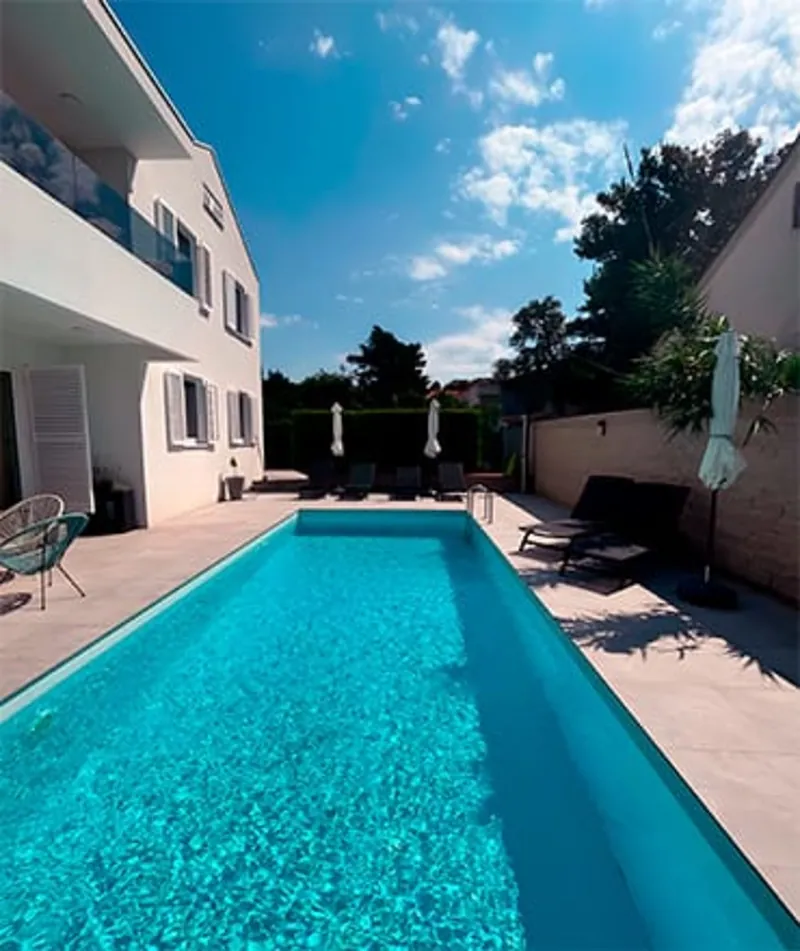
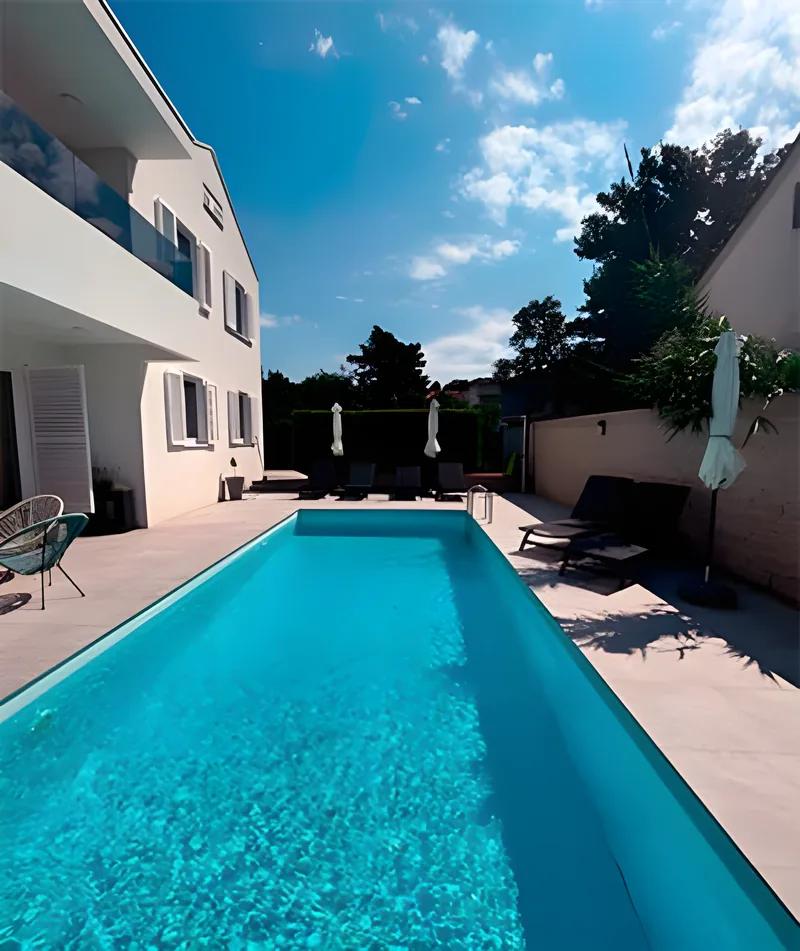
Titelbild mit Überblendung, alle Hausfotos KI-aufgewertet
- Titelbild: vier echte Fotos blenden sanft über (langsamer Zoom,
  Beschriftung, Punkte-Anzeige); bei „Bewegung reduzieren“ nur ein Bild
- Hausfotos hochskaliert: Meerblick und More mit Topaz, übrige 8 kostenlos
  mit Real-ESRGAN (Open Source); Master-Dateien in bilder/hd/
- Neues Teilen-Vorschaubild aus dem scharfen Meerblick-Foto
- PFLEGE.md: Hinweise zu Bildern und Bildrechten

Claude-Session: https://claude.ai/code/session_016B1zAqn8VWcLM2TBCxhn6q

diff --git a/index.html b/index.html
@@ -132,7 +132,14 @@ nav.scrolled .burger span{background:var(--sea)}
 
 /* ---------- Hero ---------- */
 .hero{position:relative;height:min(92svh,880px);min-height:620px;display:flex;align-items:flex-end;background:var(--sea-deep);overflow:hidden}
-.hero-bg{position:absolute;inset:0;width:100%;height:100%;object-fit:cover}
+.hero-slides{position:absolute;inset:0}
+.hero-bg{position:absolute;inset:0;width:100%;height:100%;object-fit:cover;opacity:0;transition:opacity 1.6s ease}
+.hero-bg.is-on{opacity:1;animation:drift 9s ease-out both}
+@keyframes drift{from{transform:scale(1.07)}to{transform:scale(1)}}
+.hero-cap{position:absolute;z-index:3;right:max(24px,env(safe-area-inset-right,0px));bottom:96px;display:flex;align-items:center;gap:14px;color:rgba(255,255,255,.85);font-size:13.5px;font-weight:500}
+.hero-cap .dots{display:flex;gap:6px}
+.hero-cap .dots i{width:7px;height:7px;border-radius:50%;background:rgba(255,255,255,.4);transition:background .4s,width .4s}
+.hero-cap .dots i.on{background:#fff;width:20px;border-radius:4px}
 .hero:after{content:'';position:absolute;inset:0;background:linear-gradient(180deg,rgba(15,40,52,.55) 0%,rgba(15,40,52,.12) 32%,rgba(15,40,52,.2) 55%,rgba(15,40,52,.78) 100%)}
 .hero-content{position:relative;z-index:2;color:#fff;width:100%;padding-bottom:128px;animation:rise 1s cubic-bezier(.2,.7,.2,1) both}
 @keyframes rise{from{opacity:.35;transform:translateY(18px)}to{opacity:1;transform:none}}
@@ -400,6 +407,8 @@ footer a:hover{color:#fff}
   body{padding-bottom:70px}
   .hero{height:auto;min-height:calc(100svh - 70px)}
   .hero-content{padding-top:120px;padding-bottom:110px}
+  .hero-cap{bottom:78px}
+  #heroCap{display:none}
 }
 @media(max-width:640px){
   body{font-size:16.5px}
@@ -534,7 +543,13 @@ footer a:hover{color:#fff}
 
 <!-- ======= HERO ======= -->
 <header class="hero" id="top">
-  <img class="hero-bg" src="bilder/web/hero-meerblick-1600.webp" srcset="bilder/web/hero-meerblick-960.webp 960w, bilder/web/hero-meerblick-1600.webp 1600w, bilder/web/hero-meerblick-2200.webp 2200w" sizes="100vw" alt="" fetchpriority="high" width="2200" height="1467">
+  <div class="hero-slides" aria-hidden="true">
+    <img class="hero-bg is-on" src="bilder/web/hero-meerblick-1600.webp" srcset="bilder/web/hero-meerblick-960.webp 960w, bilder/web/hero-meerblick-1600.webp 1600w, bilder/web/hero-meerblick-2200.webp 2200w" sizes="100vw" alt="Meerblick vom Balkon" data-i18n-alt="alt.view" fetchpriority="high" width="2200" height="1467">
+    <img class="hero-bg" data-src="bilder/web/hero-pool-1600.webp" data-srcset="bilder/web/hero-pool-960.webp 960w, bilder/web/hero-pool-1600.webp 1600w" alt="Beheizter Pool vor dem Haus" data-i18n-alt="alt.pool1" width="1600" height="1067">
+    <img class="hero-bg" data-src="bilder/web/hero-abend-1600.webp" data-srcset="bilder/web/hero-abend-960.webp 960w, bilder/web/hero-abend-1600.webp 1600w" alt="Pool am Abend" data-i18n-alt="alt.pool2" width="1600" height="1067">
+    <img class="hero-bg" data-src="bilder/web/hero-strand-1600.webp" data-srcset="bilder/web/hero-strand-960.webp 960w, bilder/web/hero-strand-1600.webp 1600w" alt="Kieselstrand in Bibinje" data-i18n-alt="alt.plaza" width="1600" height="1067">
+  </div>
+  <div class="hero-cap" aria-hidden="true"><span id="heroCap">Meerblick vom Balkon</span><span class="dots" id="heroDots"><i class="on"></i><i></i><i></i><i></i></span></div>
   <div class="wrap hero-content">
     <a class="rating" href="#reviews"><b>9,9</b><span data-i18n="hero.rating">Außergewöhnlich · 44 Bewertungen auf Booking.com</span></a>
     <h1><span class="kicker" data-i18n="hero.eyebrow">Ferienapartments mit beheiztem Pool · Bibinje bei Zadar</span><span data-i18n="hero.h1">Wo die Adria <em>vor der Tür beginnt.</em></span></h1>
@@ -1058,7 +1073,7 @@ en:{
   'foot.copyright':'© 2026 Haus Dalmatia · All rights reserved','foot.credit':'Surroundings photos: Wikimedia Commons (CC0 / public domain)','foot.imp':'Imprint','foot.ds':'Privacy',
   'mbar.inq':'Enquire','mbar.call':'Call',
   'alt.more':'Apartment More – living area','alt.maslina':'Apartment Maslina – living area','alt.riva':'Apartment Riva – living area','alt.zora':'Studio Zora – living area',
-  'alt.pool1':'Heated pool in front of the house','alt.pool2':'Pool in the evening','alt.spielplatz':'Children’s playground in the garden','alt.plaza':'Pebble beach in Bibinje','alt.padobran':'Water sports off Bibinje',
+  'alt.view':'Sea view from the balcony','alt.pool1':'Heated pool in front of the house','alt.pool2':'Pool in the evening','alt.spielplatz':'Children’s playground in the garden','alt.plaza':'Pebble beach in Bibinje','alt.padobran':'Water sports off Bibinje',
   'alt.zadar':'Sunset in Zadar','alt.krka':'Skradinski Buk waterfalls in Krka National Park','alt.kornati':'Islands of Kornati National Park'
 },
 pl:{
@@ -1156,7 +1171,7 @@ pl:{
   'foot.copyright':'© 2026 Haus Dalmatia · Wszelkie prawa zastrzeżone','foot.credit':'Zdjęcia okolicy: Wikimedia Commons (CC0 / domena publiczna)','foot.imp':'Impressum','foot.ds':'Prywatność',
   'mbar.inq':'Zapytaj','mbar.call':'Zadzwoń',
   'alt.more':'Apartament More – salon','alt.maslina':'Apartament Maslina – salon','alt.riva':'Apartament Riva – salon','alt.zora':'Studio Zora – salon',
-  'alt.pool1':'Podgrzewany basen przed domem','alt.pool2':'Basen wieczorem','alt.spielplatz':'Plac zabaw w ogrodzie','alt.plaza':'Kamienista plaża w Bibinje','alt.padobran':'Sporty wodne przy Bibinje',
+  'alt.view':'Widok na morze z balkonu','alt.pool1':'Podgrzewany basen przed domem','alt.pool2':'Basen wieczorem','alt.spielplatz':'Plac zabaw w ogrodzie','alt.plaza':'Kamienista plaża w Bibinje','alt.padobran':'Sporty wodne przy Bibinje',
   'alt.zadar':'Zachód słońca w Zadarze','alt.krka':'Wodospady Skradinski Buk w Parku Narodowym Krka','alt.kornati':'Wyspy Parku Narodowego Kornati'
 },
 hr:{
@@ -1254,7 +1269,7 @@ hr:{
   'foot.copyright':'© 2026 Haus Dalmatia · Sva prava pridržana','foot.credit':'Fotografije okolice: Wikimedia Commons (CC0 / javno dobro)','foot.imp':'Impresum','foot.ds':'Privatnost',
   'mbar.inq':'Upit','mbar.call':'Nazovi',
   'alt.more':'Apartman More – dnevni boravak','alt.maslina':'Apartman Maslina – dnevni boravak','alt.riva':'Apartman Riva – dnevni boravak','alt.zora':'Studio Zora – dnevni boravak',
-  'alt.pool1':'Grijani bazen ispred kuće','alt.pool2':'Bazen navečer','alt.spielplatz':'Dječje igralište u vrtu','alt.plaza':'Šljunčana plaža u Bibinju','alt.padobran':'Vodeni sportovi kod Bibinja',
+  'alt.view':'Pogled na more s balkona','alt.pool1':'Grijani bazen ispred kuće','alt.pool2':'Bazen navečer','alt.spielplatz':'Dječje igralište u vrtu','alt.plaza':'Šljunčana plaža u Bibinju','alt.padobran':'Vodeni sportovi kod Bibinja',
   'alt.zadar':'Zalazak sunca u Zadru','alt.krka':'Slapovi Skradinski buk u nacionalnom parku Krka','alt.kornati':'Otoci nacionalnog parka Kornati'
 }
 };
@@ -1326,6 +1341,7 @@ function applyLang(lang){
   if (canon) canon.setAttribute('href', 'https://hausdalmatia.com/' + (lang === 'de' ? '' : '?lang=' + lang));
   curLang = lang;
   try { localStorage.setItem('hd-lang', lang); } catch(e){}
+  var on = document.querySelector('.hero-bg.is-on'), hc = $('heroCap'); if (on && hc) hc.textContent = on.alt;
   renderPrices(); fillSelects(); updateSummary();
 }
 /* =====================================================================
@@ -1495,6 +1511,24 @@ document.querySelectorAll('img.zoom').forEach(function(img){
 });
 lb.addEventListener('click', function(){ lb.classList.remove('open'); });
 addEventListener('keydown', function(e){ if (e.key === 'Escape'){ lb.classList.remove('open'); setMenu(false); } });
+/* =====================================================================
+   TITELBILD: sanft überblendende Fotos
+   ===================================================================== */
+(function(){
+  var slides = Array.prototype.slice.call(document.querySelectorAll('.hero-bg'));
+  var dots = document.querySelectorAll('#heroDots i'), cap = $('heroCap'), i = 0, timer;
+  if (slides.length < 2 || matchMedia('(prefers-reduced-motion: reduce)').matches){ $('heroDots').hidden = true; return; }
+  function show(n){
+    slides[i].classList.remove('is-on'); dots[i].classList.remove('on');
+    i = n; slides[i].classList.add('is-on'); dots[i].classList.add('on');
+    cap.textContent = slides[i].alt;
+  }
+  function next(){ var n = (i + 1) % slides.length; if (slides[n].complete && slides[n].naturalWidth) show(n); }
+  addEventListener('load', function(){
+    slides.forEach(function(s){ if (s.dataset.src){ s.sizes = '100vw'; if (s.dataset.srcset) s.srcset = s.dataset.srcset; s.src = s.dataset.src; } });
+    timer = setInterval(function(){ if (!document.hidden) next(); }, 6500);
+  });
+})();
 /* =====================================================================
    START
    ===================================================================== */

diff --git a/PFLEGE.md b/PFLEGE.md
@@ -20,6 +20,16 @@ Neue Bilder: in `bilder/` ablegen, dann als WebP in 800 px und 1400 px Breite na
 Entwicklerkonsole prüfen. Ein einziger Syntaxfehler (z. B. ein doppeltes Komma) legt das gesamte
 Skript lahm – genau das war der Fehler der Version vom 07.10.2026.
 
+## Bilder
+
+- `bilder/hd/` enthält die aufgewerteten Master-Fotos (Hochskalierung: Meerblick und Apartment More mit Topaz,
+  alle übrigen kostenlos mit Real-ESRGAN, Open Source). Daraus werden die WebP-Dateien in `bilder/web/` erzeugt.
+- Die Original-Fotos auf der alten WordPress-Seite sind nur etwa 370–600 px breit. Für wirklich scharfe Bilder
+  bitte neue Fotos in voller Kameraauflösung aufnehmen (Handy reicht, querformatig, bei gutem Licht).
+- Umgebungsfotos (Zadar, Krka, Kornaten): Wikimedia Commons, CC0 bzw. gemeinfrei – geprüft am 21.10.2026.
+  Strand- und Wassersportfoto stammen von der eigenen Website; bitte bestätigen, dass sie selbst aufgenommen wurden.
+- Titelbild: vier Fotos blenden nacheinander über (`TITELBILD` im Skript). Reihenfolge = Reihenfolge der `hero-bg`-Bilder im HTML.
+
 ## Vor dem Livegang zu klären
 
 1. **Strandentfernung:** alte Website „300 m“, Booking.com ca. 700 m – bitte messen. Bis dahin steht „wenige Gehminuten“.
